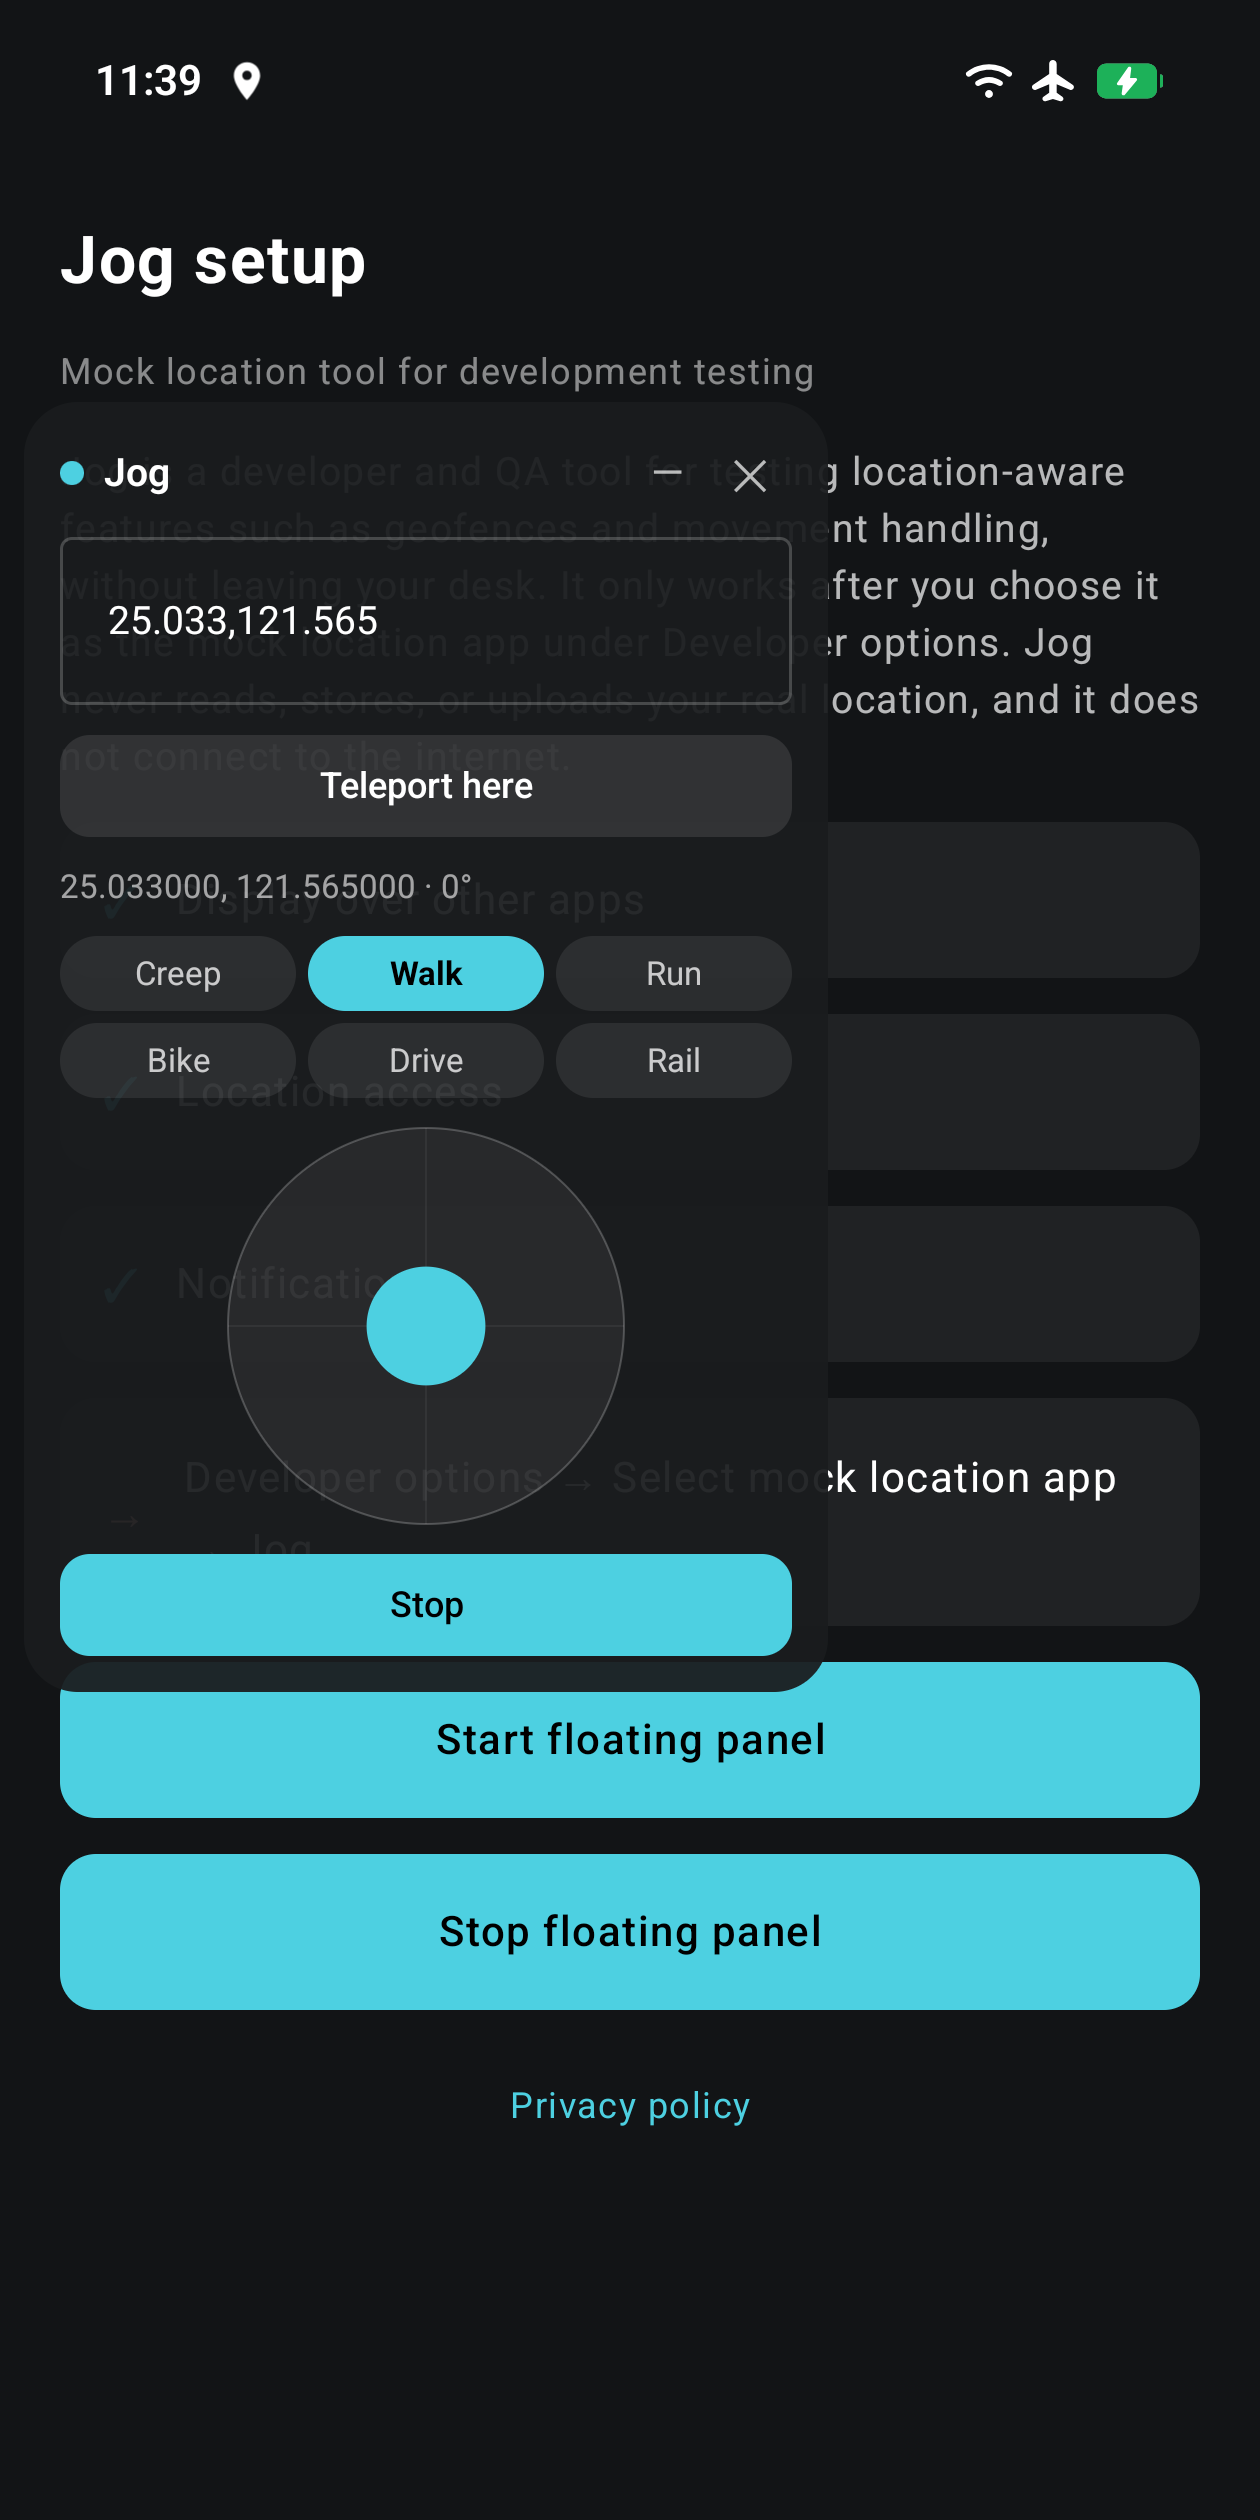
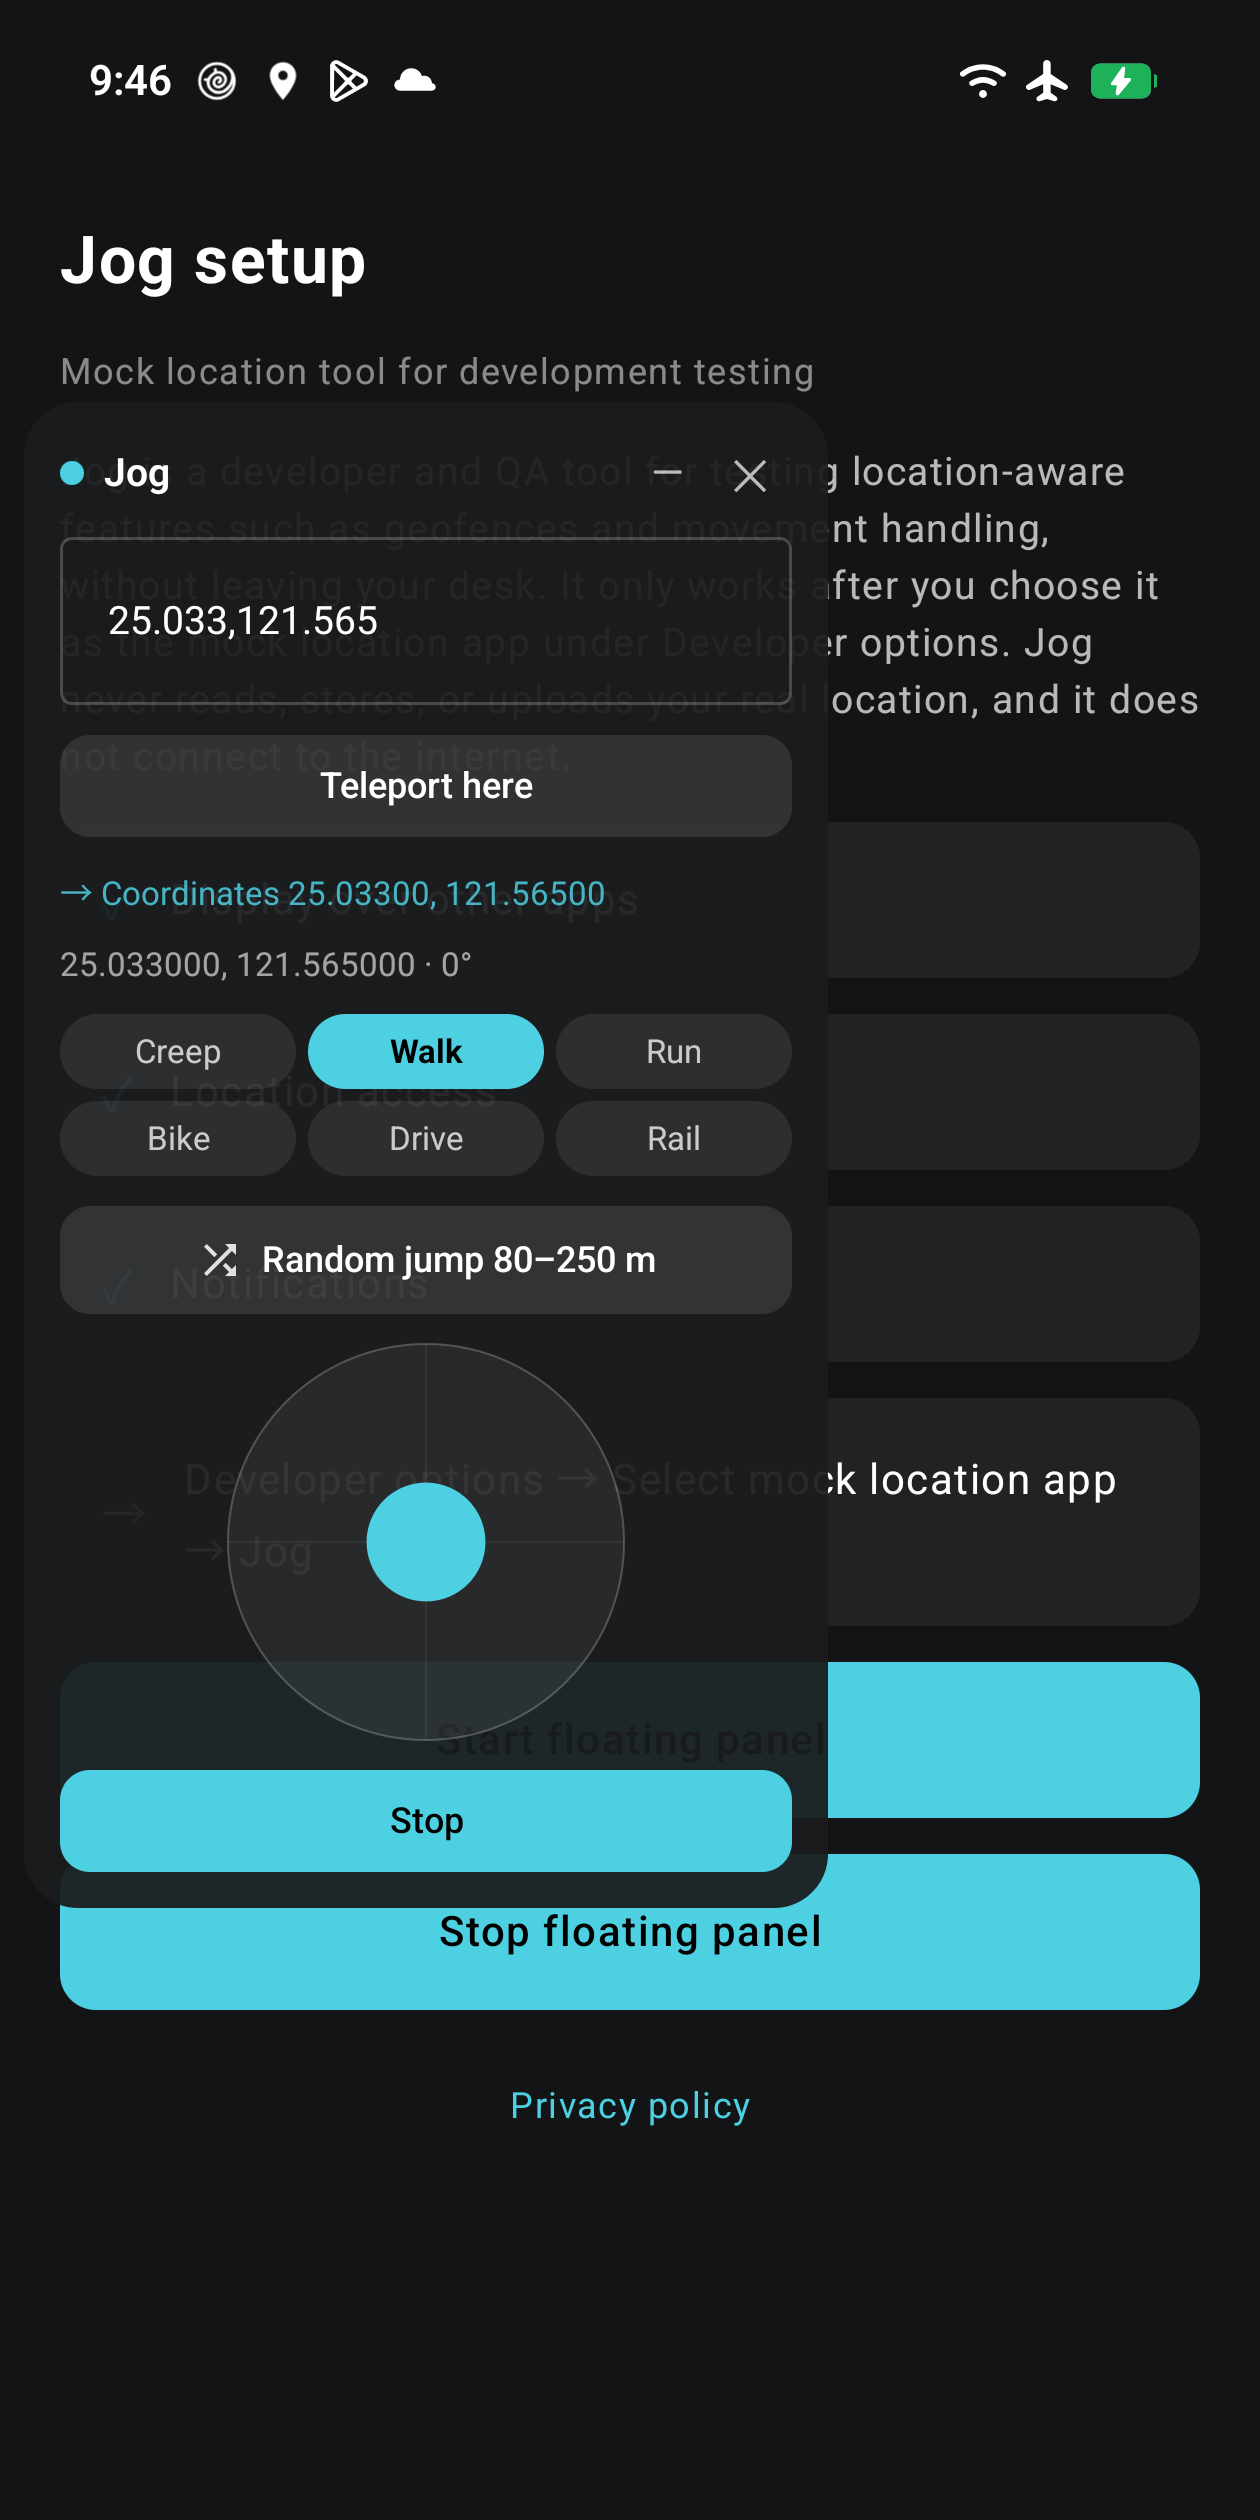
[JogApp] Refresh store listing and screenshots for the 1.0.0 production release
[Description]
第一個正式版直接把封測中的 1.0.0（versionCode 10000）推上 Production，商店素材跟著對齊這個版本。

- 截圖：英文、繁中各 4 張，以 Play 上的 1.0.0 重拍 —— 設定頁、模擬中的面板、隨機跳、收合面板。
  原本的 03_speed_rail 是 0.1.0 的畫面，沒有隨機跳按鈕與收合後的搖桿，移除。
  只拍 1.0.0 實際有的功能：自動移動、Health 同步、廣告都不在這個版本，等 2.0.0 上架再補拍。
- 完整說明（兩個語系）：補上收合後仍可用的搖桿、依速度檔的隨機跳距離、記住上次位置，
  隱私一節補「上次的模擬位置只存在裝置上」，與隱私權政策一致。標題與簡短說明不變。
- release-notes.md：新增 1.0.0 正式版的 release notes。
- console-answers.md：「Production 上傳前」改成推封測版的步驟（Add from library / Promote release），
  補上 Production 的國家／地區要另外選、Managed publishing。
- PLAY_RELEASE.md：截圖項目改為 4 張，並註明截圖只能出現該版本有的功能。

[Test]
截圖：1260x2520（2:1）、RGB 無 alpha，畫面只有 Jog 自己；拍攝期間對 Play 版暫時開的模擬定位
權限、App 語系與鍵盤設定都已還原。
文案：完整說明英文 1740、繁中 580 字元（上限 4000）；會貼進 Console 的六段文字對 PLAY_RELEASE.md
第一節的紅線詞彙檢查無命中。release notes 英文 418、繁中 139 字元（上限 500）。
以上內容已在 Play Console 建立 Production release、選定 178 個國家／地區並送審。
Not covered: 審核結果尚未出來。

diff --git a/store/release-notes.md b/store/release-notes.md
@@ -24,4 +24,25 @@ Requires Developer options → Select mock location app → Jog.
 </zh-TW>
 ```
 
+## 1.0.0（versionCode 10000）— 第一個正式版
+
+封測中的同一個 build 直接推上 Production，不重新上傳。
+
+```
+<en-US>
+First public release of Jog, a mock location tool for developers and QA.
+• Floating panel with a joystick to move the simulated position in real time, also on the collapsed panel.
+• Teleport by coordinates or place name, or jump to a random nearby spot scaled to the speed tier.
+• Six speed tiers from creep to rail. The last position is restored on launch.
+Requires Developer options → Select mock location app → Jog.
+</en-US>
+<zh-TW>
+Jog 第一個正式版，給開發者與 QA 用的模擬定位工具。
+• 懸浮面板與搖桿，即時移動模擬位置，收合後也能用。
+• 輸入座標或地名瞬移，或依速度檔隨機跳到附近。
+• 六個速度檔次，從蝸行到高鐵；重新開啟時回到上次的位置。
+需先在開發者選項選取 Jog 為模擬位置資訊應用程式。
+</zh-TW>
+```
+
 之後每次上傳新版：`versionCode` +1，在這裡加一段，只寫這版改了什麼。

diff --git a/PLAY_RELEASE.md b/PLAY_RELEASE.md
@@ -181,7 +181,7 @@ targeting Android 14+ 起，Play Console 要求申報每一個前景服務類型
 - [x] 內容分級問卷：All Other App Types，全部 No
 - [x] 目標客群：只勾 18 and over
 - [x] 512×512 圖示與 1024×500 主題圖片：`python tools/render_store_assets.py` 產到 `store/`
-- [x] 手機截圖各 3 張在 `store/screenshots/en/` 與 `store/screenshots/zh-TW/`（設定頁、面板運行中、速度檔切換），已裁成 2:1、去 alpha，只有 Jog 自己的畫面
+- [x] 手機截圖各 4 張在 `store/screenshots/en/` 與 `store/screenshots/zh-TW/`（設定頁、面板運行中、隨機跳、收合面板），已裁成 2:1、去 alpha，只有 Jog 自己的畫面。2026-10-07 以 Play 上的 1.0.0 重拍；**截圖只能出現該版本真的有的功能**，2.0.0 的自動移動／Health 同步要等那版上架時再補拍
 - [x] App 圖示已換成 adaptive icon（`mipmap-anydpi-v26/ic_launcher.xml`，含 monochrome 層）；`ic_pin.xml` 只剩通知在用
 - [x] 廣告聲明：無廣告；Advertising ID：不使用
 - [x] 資料刪除網址：不適用

diff --git a/store/console-answers.md b/store/console-answers.md
@@ -193,8 +193,13 @@ Target audience、News、Data safety、Government、Financial、Health、Privacy
 
 ## Production 上傳前
 
-- `versionCode` 比封閉測試用的那版大。
-- 第一次上傳時勾 **Use Play App Signing**（現在是預設，Google 會產正式簽章金鑰，你手上的是 upload key）。
+- 第一個正式版直接把封測中的 1.0.0（versionCode 10000）推上去，**不重新上傳**：
+  Production → Create new release → App bundles 選 **Add from library** 挑 10000；或在 Closed testing 的
+  release 上按 **Promote release → Production**。Release notes 用 `store/release-notes.md` 的 1.0.0 段落。
+- Production 有自己的 Countries / regions 設定，不會沿用封測的，要另外選。
+- 要自己決定上線時間就先在 Publishing overview 開 **Managed publishing**，審核通過後再手動發布。
+- 之後的版本才是新上傳：`versionCode` 要比線上那版大（由 `appVersion` 算出，升版即可）。
+- Play App Signing 已在 2026-09-18 首次上傳時啟用，不必再設定。
 
 ---
 
